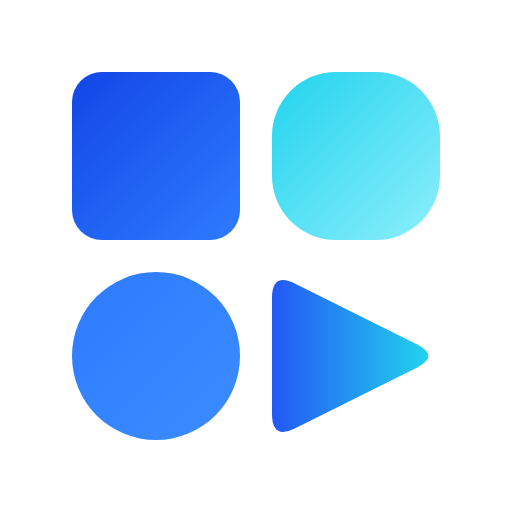
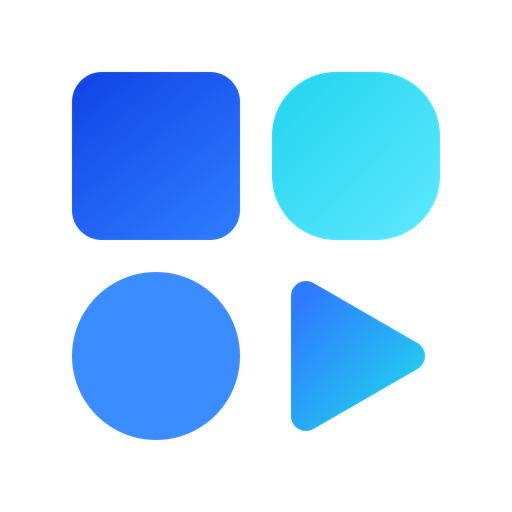
Marca: substitui ícone reconstruído pelos ficheiros oficiais do kit Mike Apps
Os PNGs de produção (icon-192/512, favicons, apple-touch-icon, mike-logo,
variantes maskable) passam a ser gerados a partir de marca/png/*, chegado
via merge do main — em vez da reconstrução SVG-a-partir-de-especificação
usada enquanto o kit oficial não estava disponível como anexo real.

- icon-192/512.png: downscale exato 2x de marca/png/icone-192/512.png
- favicon-16/32.png, mike-logo.png: a partir do master icone-1024.png
- apple-touch-icon.png: a partir de icone-1024-branco.png (o ficheiro que
  o próprio kit designa para "onde a transparência não serve")
- icon-192/512-maskable.png: compostos localmente (símbolo sobre fundo
  #0E1418), escala calculada a partir do raio máximo real dos pixels com
  alfa para garantir que cabe no safe-circle dos adaptive icons — não há
  equivalente maskable no kit

Atualiza .github/copilot-instructions.md com a proveniência de cada ficheiro.

Claude-Session: https://claude.ai/code/session_015N5JvcAcSkBWtj37ha6kyL

diff --git a/index.html b/index.html
@@ -25,7 +25,7 @@
       <button type="button" class="seg-btn active" data-lang="pt">PT</button>
       <button type="button" class="seg-btn" data-lang="en">EN</button>
     </div>
-    <span class="mark">v2.2</span>
+    <span class="mark">v2.3</span>
   </div>
   <p class="sub">Distância de projeção e pixel pitch de ecrãs LED, calculados com precisão para fichas técnicas de produção.</p>
 

diff --git a/sw.js b/sw.js
@@ -1,4 +1,4 @@
-const CACHE = "calculadores-v274";
+const CACHE = "calculadores-v275";
 const APP_SHELL = [
   "./",
   "./index.html",

diff --git a/.github/copilot-instructions.md b/.github/copilot-instructions.md
@@ -53,7 +53,14 @@ Pedido original do utilizador foi genérico ("cria popups sempre que ouves dúvi
 
 ## Marca (rebranding — Mike Apps)
 
-A app foi rebrandada de "AVK Calculadores" para "Mike Apps Calculadores" (`index.html`, `ecra-complexo.html`, `manifest.json`, `CLAUDE.md`, título e cabeçalho). O ícone (`icons/mike-logo.png`, favicons, `icon-192/512(-maskable).png`, `apple-touch-icon.png`) é uma reconstrução em SVG feita a partir da especificação de um kit de marca fornecido pelo utilizador (grelha 512, 4 formas — quadrado/squircle/círculo/"play" — a 168px com 32px de intervalo a começar em 72, raios 30/64/círculo, 5 cores hex documentadas no commit) — os ficheiros oficiais do kit (SVG vetorial, `.ico`) nunca chegaram como anexo real a este ambiente, só foram vistos inline numa conversa, por isso o ícone em produção é uma aproximação fiel mas não byte-a-byte igual ao original. Se o utilizador anexar os ficheiros oficiais mais tarde, substituir diretamente.
+A app foi rebrandada de "AVK Calculadores" para "Mike Apps Calculadores" (`index.html`, `ecra-complexo.html`, `manifest.json`, `CLAUDE.md`, título e cabeçalho).
+
+**O kit oficial da marca chegou** (commit "A marca Mike Apps: o logotipo e as regras de o usar", pasta `marca/` — SVGs vetoriais, `.ico`, PNGs em várias variantes/tamanhos, `marca/LEIA-ME.md` com a tabela "qual ficheiro usar" e as 3 regras de uso, `marca/prova.html` com o manual visual). Isto **substituiu** a primeira versão do ícone, que tinha sido uma reconstrução em SVG feita só a partir de uma especificação escrita (o ficheiro oficial nunca tinha chegado como anexo real até esse commit). Os ficheiros de produção em `icons/` (`mike-logo.png`, `favicon-16/32.png`, `apple-touch-icon.png`, `icon-192/512(-maskable).png`) foram gerados a partir dos PNGs oficiais em `marca/png/`, não da reconstrução:
+
+- `icon-192.png`/`icon-512.png` (purpose "any", transparente) — downscale 2x exato de `marca/png/icone-192.png`/`icone-512.png` (esses ficheiros já vêm a 2x, ex. "icone-192.png" tem na verdade 384px).
+- `favicon-16/32.png` e `mike-logo.png` (ícone inline do cabeçalho, 28px) — downscale de alta qualidade a partir do master `marca/png/icone-1024.png` (2048px), que já tem o padding/"ar à volta" correto para uso como ícone de app.
+- `apple-touch-icon.png` — a partir de `marca/png/icone-1024-branco.png`, que é o ficheiro que o próprio kit designa para "onde a transparência não serve" (fundo branco opaco; o resto dos PNGs do kit é transparente).
+- `icon-192-maskable.png`/`icon-512-maskable.png` — não há equivalente maskable no kit (é um conceito específico de PWA/Android, não de brand kit genérico), por isso continuam a ser compostos localmente: símbolo (`marca/png/simbolo-2048.png`, versão sem padding) sobre fundo escuro `#0E1418` (o `background_color`/`theme_color` do `manifest.json`), à escala mínima que garante que a forma inteira (incluindo os cantos quase-retos do quadrado, rx=30) cabe dentro do "safe circle" de raio 0.4×canvas exigido pelos adaptive icons — a escala é calculada a partir do raio máximo real dos pixels com alfa da imagem recortada, não de um valor fixo. Ver o script usado (histórico do commit) se for preciso regenerar a outro tamanho.
 
 **Deliberadamente mantido "AVK"** nos sítios que descrevem equipamento/inventário real da empresa — isso é facto de negócio (de quem é o equipamento), não identidade visual da app: hints "Inventário da AVK" nas calculadoras, badge "Mercado" (`item && item.mercado`), notas "existe no grupo AVK" em `led-tiles.json`. Nunca "despromover" essas referências ao mexer na marca — só a identidade visual (nome, logo, ícone, título) muda.
 
